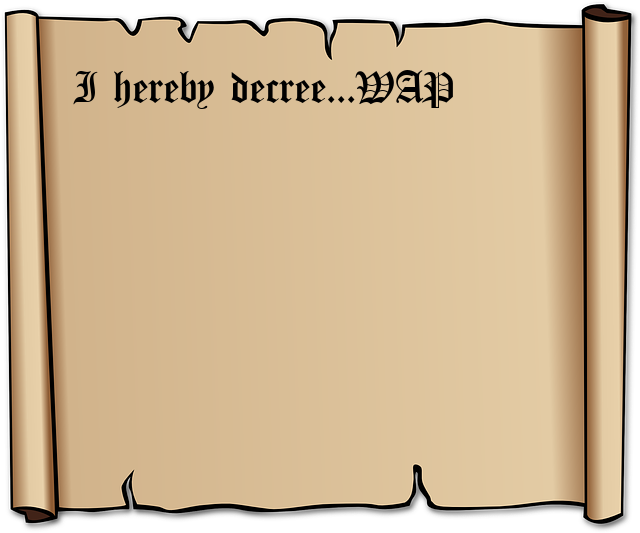
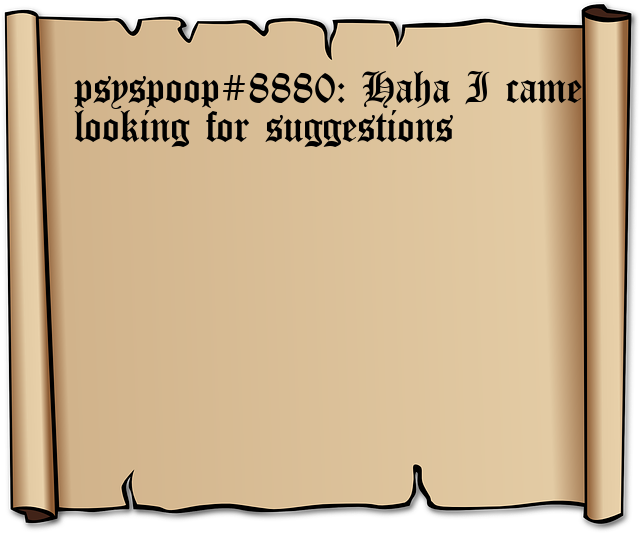
Added quote command!

Changed region(s): [[0.0938, 0.1201, 0.9062, 0.3002]]

diff --git a/cogs/images.py b/cogs/images.py
@@ -1,9 +1,7 @@
-import typing
 import random
 import textwrap
-import discord
 
-from PIL import Image, ImageDraw, ImageFont, ImageFilter
+from PIL import Image, ImageDraw, ImageFont
 from discord import File
 from discord.ext import commands
 
@@ -12,47 +10,52 @@ from utils.consts import ROLE_ASPARAGUS, ROLE_POTATO
 from utils.embed import build_image_embed
 
 
+def build_quote(quote: str, author: str = None):
+    if author is not None:
+        quote = f"{author}: " + quote
+
+    if len(quote) > 267:
+        quote = quote[0:267] + "..."
+
+    scroll_path = "resources/scroll.png"
+    scroll = Image.open(fp=scroll_path)
+
+    img_size = (640, 533)
+    img = Image.new(mode="RGBA", size=img_size, color=(255, 0, 0, 0))
+
+    img.paste(im=scroll, box=(0, 0, scroll.width, scroll.height))
+
+    d = ImageDraw.Draw(im=img, mode="RGBA")
+
+    quote_coords = [74, 70]  # [536, 449]
+    quote_width = 30
+
+    font_path = "resources/Canterbury.ttf"
+    font_size = 45
+    font = ImageFont.truetype(font=font_path, size=font_size)
+
+    lines = textwrap.wrap(quote, width=quote_width)
+    for line in lines:
+        d.multiline_text(
+            xy=quote_coords,
+            font=font,
+            text=line,
+            fill=(0, 0, 0)
+        )
+        quote_coords[1] += font.getsize(line)[1]
+
+    image_path = "resources/quote.png"
+    img.save(fp=image_path)
+    discord_file = File(fp=image_path)
+
+    return discord_file
+
+
 class ImageCommands(commands.Cog, name="Fun Image Commands"):
     @commands.command()
     @commands.cooldown(rate=CD_GLOBAL_RATE, per=CD_GLOBAL_PER, type=CD_GLOBAL_TYPE)
-    async def quote(self, ctx, *, quote: typing.Union[discord.Message, str]):
-        if type(quote) == discord.Message:
-            quote = quote.clean_content
-
-        if len(quote) > 267:
-            quote = quote[0:267] + "..."
-
-        scroll_path = "resources/scroll.png"
-        scroll = Image.open(fp=scroll_path)
-
-        img_size = (640, 533)
-        img = Image.new(mode="RGBA", size=img_size, color=(255, 0, 0, 0))
-
-        img.paste(im=scroll, box=(0, 0, scroll.width, scroll.height))
-
-        d = ImageDraw.Draw(im=img, mode="RGBA")
-
-        quote_coords = [74, 70]  # [536, 449]
-        quote_width = 30
-
-        font_path = "resources/Canterbury.ttf"
-        font_size = 45
-        font = ImageFont.truetype(font=font_path, size=font_size)
-
-        lines = textwrap.wrap(quote, width=quote_width)
-        for line in lines:
-            d.multiline_text(
-                xy=quote_coords,
-                font=font,
-                text=line,
-                fill=(0, 0, 0)
-            )
-            quote_coords[1] += font.getsize(line)[1]
-
-        image_path = "resources/quote.png"
-        img.save(fp=image_path)
-        discord_file = File(fp=image_path)
-        return await ctx.send(file=discord_file)
+    async def quote(self, ctx, *, quote: str, author=None):
+        await ctx.send(file=build_quote(quote, author))
 
     @commands.command()
     @commands.cooldown(rate=CD_GLOBAL_RATE, per=CD_GLOBAL_PER, type=CD_GLOBAL_TYPE)

diff --git a/utils/client.py b/utils/client.py
@@ -1,3 +1,5 @@
+from cogs.images import build_quote
+
 import asyncio
 import hashlib
 import json
@@ -273,7 +275,19 @@ async def monitor_reactions(channel, emoji: discord.PartialEmoji, user: discord.
         elif emoji.name == tweet_reactions[2] and user.id == 189554873778307073:
             pass
 
+    async def quote_reacts():
+        quote_emoji = "📝"
+        if emoji.name == quote_emoji:
+            await channel.send(
+                file=build_quote(
+                    quote=message.clean_content,
+                    author=message.author
+                )
+            )
+
+
     await trivia_message()
+    await quote_reacts()
 
     if not user.bot:
         await twitterverse_reacts()
